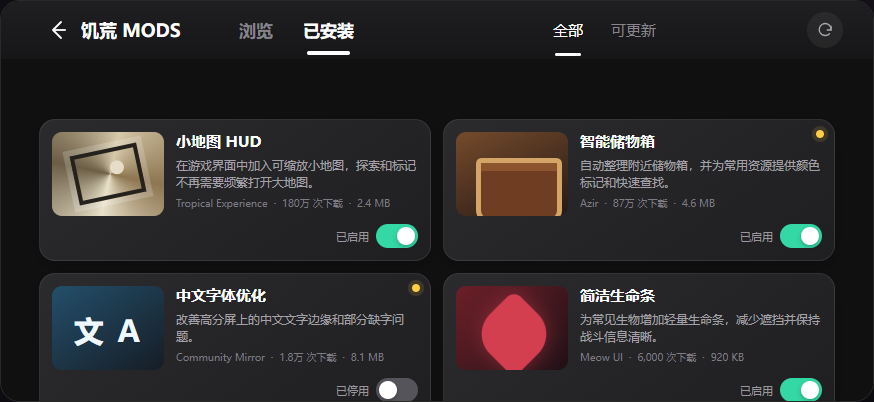
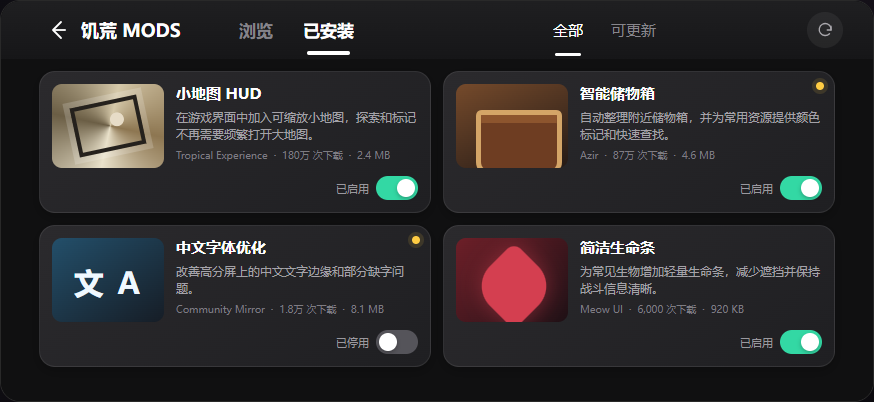
fix(mods): move app search below tabs

diff --git a/demos/Mod与发行人/APP端MODS功能demo.html b/demos/Mod与发行人/APP端MODS功能demo.html
@@ -718,13 +718,10 @@
     .device.landscape .primary-tab { height: 42px; font-size: 17px; }
     .device.landscape .primary-tab.is-active::after { bottom: -4px; }
     .device.landscape .search-section {
-      position: absolute;
-      top: 7px;
-      right: 30px;
-      width: 300px;
-      height: 44px;
-      padding: 0;
-      background: transparent;
+      width: 100%;
+      height: 50px;
+      padding: 3px 38px;
+      background: #151517;
     }
     .device.landscape .search-row { height: 44px; font-size: 16px; }
     .device.landscape .search-row input { font-size: 14px; }
@@ -734,10 +731,10 @@
       gap: 28px;
     }
     .device.landscape .mods-scroll {
-      top: 106px;
+      top: 156px;
       padding: 12px 38px 24px;
     }
-    .device.landscape .mods-screen.is-installed .mods-scroll { top: 106px; }
+    .device.landscape .mods-screen.is-installed .mods-scroll { top: 58px; }
     .device.landscape .mods-grid {
       grid-template-columns: repeat(2, minmax(0, 1fr));
       gap: 12px;

diff --git a/docs/superpowers/specs/2026-07-31-app-mods-demo-prd-design.md b/docs/superpowers/specs/2026-07-31-app-mods-demo-prd-design.md
@@ -8,6 +8,7 @@
 |2026-07-31|V1.1|更多菜单限制为两行、每行最多五项，采用 5+4 布局|
 |2026-07-31|V1.2|浏览排序改为“热门 / 下载最多 / 最新发布”横向子 Tab|
 |2026-07-31|V1.3|浏览页搜索框独占主 Tab 下方一行；已安装页不显示搜索|
+|2026-07-31|V1.4|补充横屏约束：搜索框不得与主 Tab 同行，横竖屏均独占主 Tab 下方一行|
 
 ## 目标
 
@@ -57,7 +58,7 @@
 
 - 顶部：返回按钮和“饥荒 MODS”。
 - 主 Tab：“浏览 / 已安装”。
-- 浏览页搜索框独占主 Tab 下方一整行，按 MOD 名称和作者模糊匹配。
+- 浏览页搜索框在横屏、竖屏均独占主 Tab 下方一整行，不得与“浏览 / 已安装”同行；按 MOD 名称和作者模糊匹配。
 - 搜索框下方为横向排序子 Tab：
     - 热门：默认选中，按近 24 小时下载增幅降序。
     - 下载最多：按累计下载量降序。
@@ -128,7 +129,7 @@
 
 1. 更多菜单仅两行且每行不超过五项，9 个入口无遗漏。
 2. 创意工坊与 MODS 为两个独立入口，页面内不混用订阅和安装文案。
-3. 浏览页搜索框独占一行；排序为三个横向子 Tab，默认“热门”。
+3. 横屏、竖屏的浏览页搜索框均位于主 Tab 下方并独占一行；排序为三个横向子 Tab，默认“热门”。
 4. 已安装页不显示搜索，保留筛选、刷新和卡片快捷开关。
 5. 竖屏单列、横屏双列；详情分别为覆盖层和左右分栏宽弹层。
 6. 卡片和详情不显示兼容性、最新版本、非官方标签。
@@ -136,4 +137,3 @@
 8. 详情启停使用绿色/灰色整颗按钮，不使用滑块；列表快捷开关保留。
 9. 旋转后页面、筛选、滚动位置、详情和任务状态不丢失。
 10. 国内包显示“盖世游戏”，海外包显示“GameHub”，其余功能规则一致。
-
